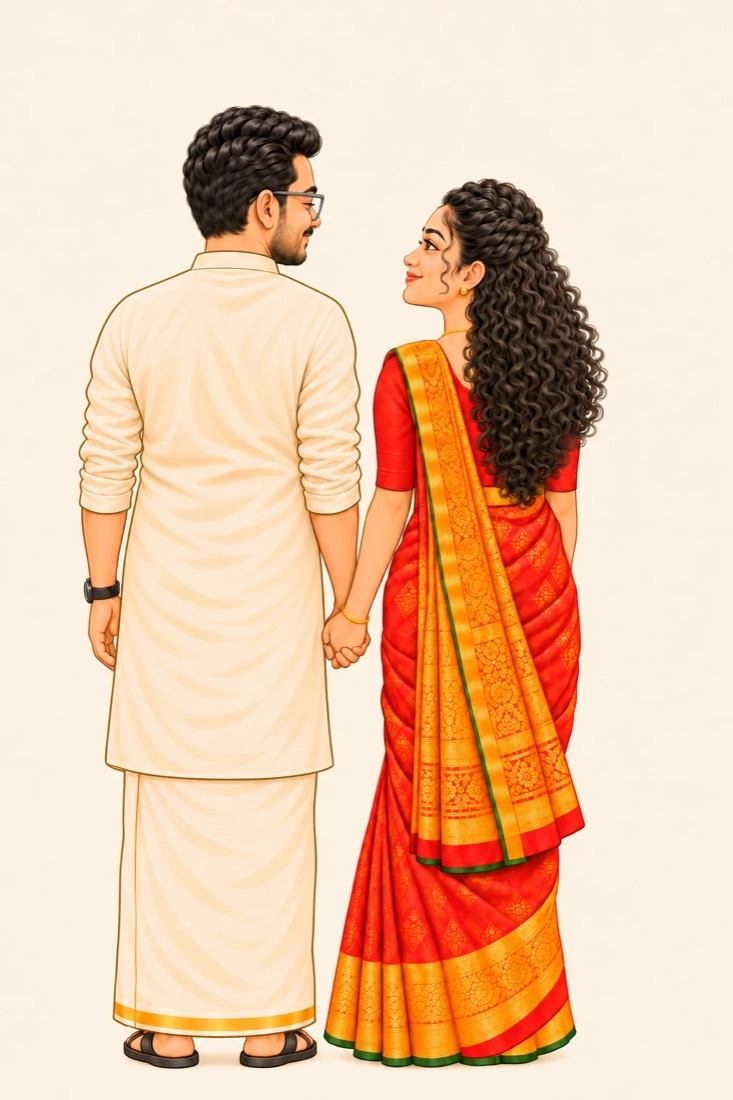
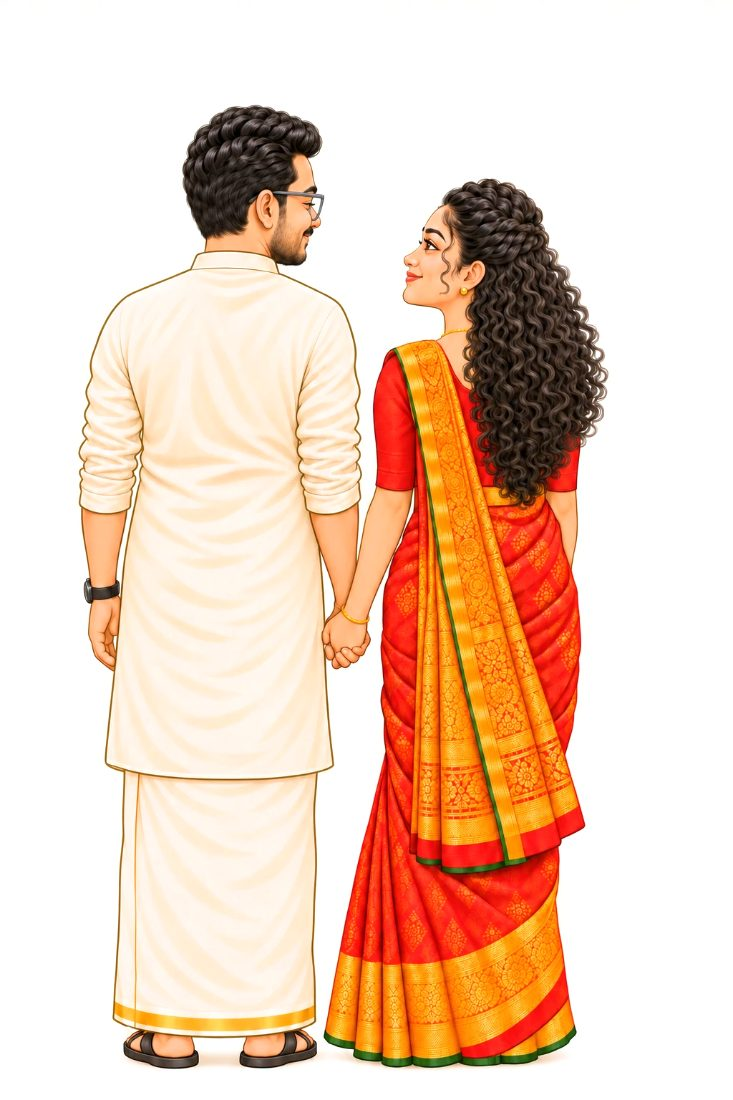
Use painted namaste illustration; white-balance all three paintings
- Namaste painting on the opening plaque and footer (larger slots)
- All paintings re-exported with the backdrop shifted to pure white so they
  blend invisibly into the paper (smaller files too: 97-129 KB)
- Sections no longer isolate blending (removed z-index), so the hero
  painting shows no box

diff --git a/assets/css/site.css b/assets/css/site.css
@@ -111,7 +111,7 @@ main:focus { outline: none; }
   clip-path: polygon(50% 0, 100% 40px, 100% 100%, 0 100%, 0 40px);
 }
 /* gold double hairline frame: gable on top, straight sides */
-.frame { position: absolute; inset: 8px; pointer-events: none; z-index: 0; }
+.frame { position: absolute; inset: 8px; pointer-events: none; z-index: -1; }
 .frame-top { position: absolute; top: 0; left: 0; width: 100%; height: 40px; display: block; overflow: visible; }
 .frame-top path { fill: none; stroke: var(--line); vector-effect: non-scaling-stroke; }
 .frame-sides {
@@ -121,8 +121,9 @@ main:focus { outline: none; }
 .frame-sides::after {
   content: ""; position: absolute; inset: 0 4px 4px; border: 1px solid var(--line); border-top: 0; opacity: .55;
 }
-#app > * { position: relative; z-index: 1; }
-#app > .frame { position: absolute; z-index: 0; }
+/* sections must not form their own stacking layers, or paintings can't blend with the paper */
+#app > * { position: relative; }
+#app > .frame { position: absolute; }
 
 /* ---------- type helpers ---------- */
 .label {
@@ -198,10 +199,10 @@ main:focus { outline: none; }
 /* Couple illustrations: any SVG/PNG/WebP/JPEG, any aspect ratio — contained, never cropped */
 .couple { display: block; margin-left: auto; margin-right: auto; width: 100%; height: auto; object-fit: contain; }
 .couple-hero { max-height: min(400px, 52vh); animation: rise 1s ease .15s both; }
-/* Opaque paintings (JPEG) blend into the paper and get softly feathered edges */
+/* Opaque paintings (JPEG, white-balanced so the backdrop is pure white) blend into the paper
+   via multiply, with softly feathered edges */
 .couple[src$=".jpg"], .couple[src$=".jpeg"] {
   mix-blend-mode: multiply;
-  filter: brightness(1.055) saturate(1.05);   /* lifts the painting's cream backdrop to match the paper */
   -webkit-mask-image: linear-gradient(to right, transparent, #000 7%, #000 93%, transparent), linear-gradient(to bottom, transparent, #000 4%, #000 97%, transparent);
   -webkit-mask-composite: source-in;
           mask-image: linear-gradient(to right, transparent, #000 7%, #000 93%, transparent), linear-gradient(to bottom, transparent, #000 4%, #000 97%, transparent);
@@ -289,14 +290,14 @@ main:focus { outline: none; }
 .closing-title { font-family: var(--font-script); font-weight: 400; font-size: 3.2rem; color: var(--title); margin: 6px 0 0; }
 
 /* ---------- footer (inside the paper) ---------- */
-.site-footer { position: relative; z-index: 1; text-align: center; padding: 46px 0 70px; }
+.site-footer { position: relative; text-align: center; padding: 46px 0 70px; }
 .site-footer::after {   /* kasavu band along the bottom edge of the paper */
   content: ""; position: absolute; left: -22px; right: -22px; bottom: 0; height: 22px;
   background: var(--kasavu) repeat-x center / 44px 22px;
 }
 .site-footer p { margin: 0 0 10px; }
 .sharing { font-family: var(--font-script); font-size: 2rem; line-height: 1.2; color: var(--title); }
-.couple-namaste { max-height: 140px; max-width: 240px; margin: 14px auto 6px; }
+.couple-namaste { max-height: min(280px, 38vh); margin: 16px auto 6px; }
 .qr { background: #fff; padding: 6px; border-radius: 8px; }
 .footer-date { font-family: var(--font-caps); letter-spacing: .14em; color: var(--muted); font-size: .78rem; margin-top: 14px !important; }
 .page-end { height: 110px; }
@@ -371,7 +372,7 @@ main:focus { outline: none; }
   transition: opacity .3s ease, transform .3s ease;
 }
 .plaque::before { content: ""; position: absolute; inset: 6px; border: 1px solid var(--line); border-radius: 3px; pointer-events: none; }
-.plaque-couple { height: 112px; margin: 0 0 6px; display: flex; align-items: flex-end; justify-content: center; }
+.plaque-couple { height: min(170px, 22vh); margin: 0 0 4px; display: flex; align-items: flex-end; justify-content: center; }
 .plaque-couple .couple { max-height: 100%; }
 .opening-initials { font-family: var(--font-script); font-size: 3rem; line-height: 1; color: var(--title); margin: 4px 0 2px; }
 .opening-initials span { color: var(--accent); font-family: var(--font-body); font-size: .5em; vertical-align: .3em; }

diff --git a/CLAUDE.md b/CLAUDE.md
@@ -166,14 +166,21 @@ Set `color-scheme: light` and explicit backgrounds so dark-mode phones do not in
 7. **Venue vignettes** — a simple bungalow for Staydium, a resort with palms for K-Hills.
 
 ### Couple illustrations
-*Decision (6 Nov 2026):* the hero uses Saurav's **personalised painted illustration**
-(`assets/img/couple/painted-standing.jpg`, a web-sized copy of
-`reference/couple-illustration-chatgpt.png`), approved by him for the public site.
-JPEG paintings are blended into the paper (multiply + slight brightness lift + feathered
-edges). The back view is also painted (`painted-back.jpg`, original kept privately as
-`reference/couple-back-chatgpt.webp`). The namaste pose is still the cute generic SVG
-(bigger heads, closed happy eyes, netti chutti, palakka necklace, melmundu stole) until
-Saurav makes a painted version in the same style.
+*Decision (6 Nov 2026):* all three poses use Saurav's **personalised painted
+illustrations**, approved by him for the public site:
+
+| Slot | Web file (committed) | Original (private, in `reference/`) |
+|---|---|---|
+| `hero` | `assets/img/couple/painted-standing.jpg` | `couple-illustration-chatgpt.png` |
+| `namaste` | `assets/img/couple/painted-namaste.jpg` | `couple-namaste-chatgpt.webp` |
+| `back` | `assets/img/couple/painted-back.jpg` | `couple-back-chatgpt.webp` |
+
+Web files are 733×1100 JPEGs, **white-balanced so the painted backdrop is pure white**
+(each original had a slightly different cream). CSS then blends any `.jpg` couple image
+into the paper with `mix-blend-mode: multiply` plus feathered edges. For this to work,
+sections inside `#app` must not create their own stacking layer (no `z-index`, no
+`isolation`). When replacing a painting, white-balance it the same way first.
+The generic cute SVGs (`hero.svg`, `namaste.svg`, `back.svg`) remain as fallbacks.
 
 Original brief (kept for reference):
 Saurav wants to **start with generic, stylised couple illustrations** (like the decorative
